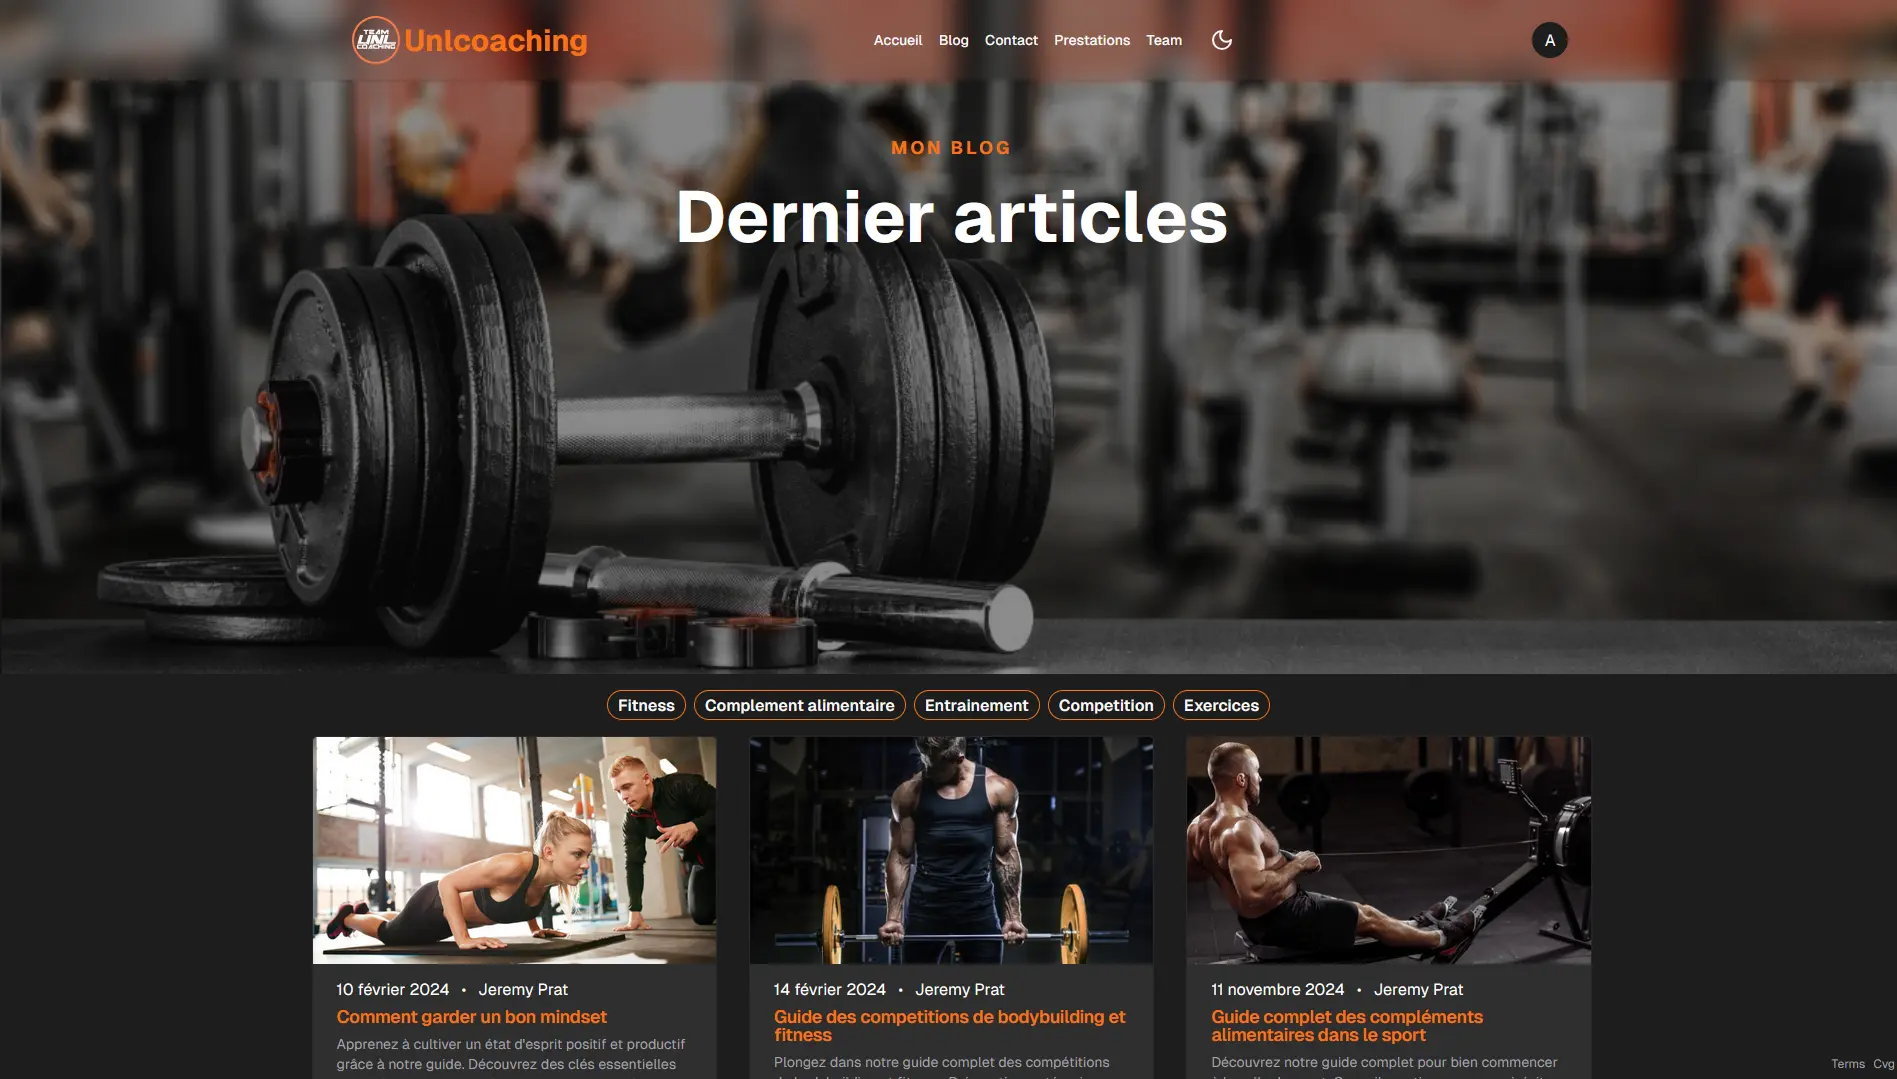
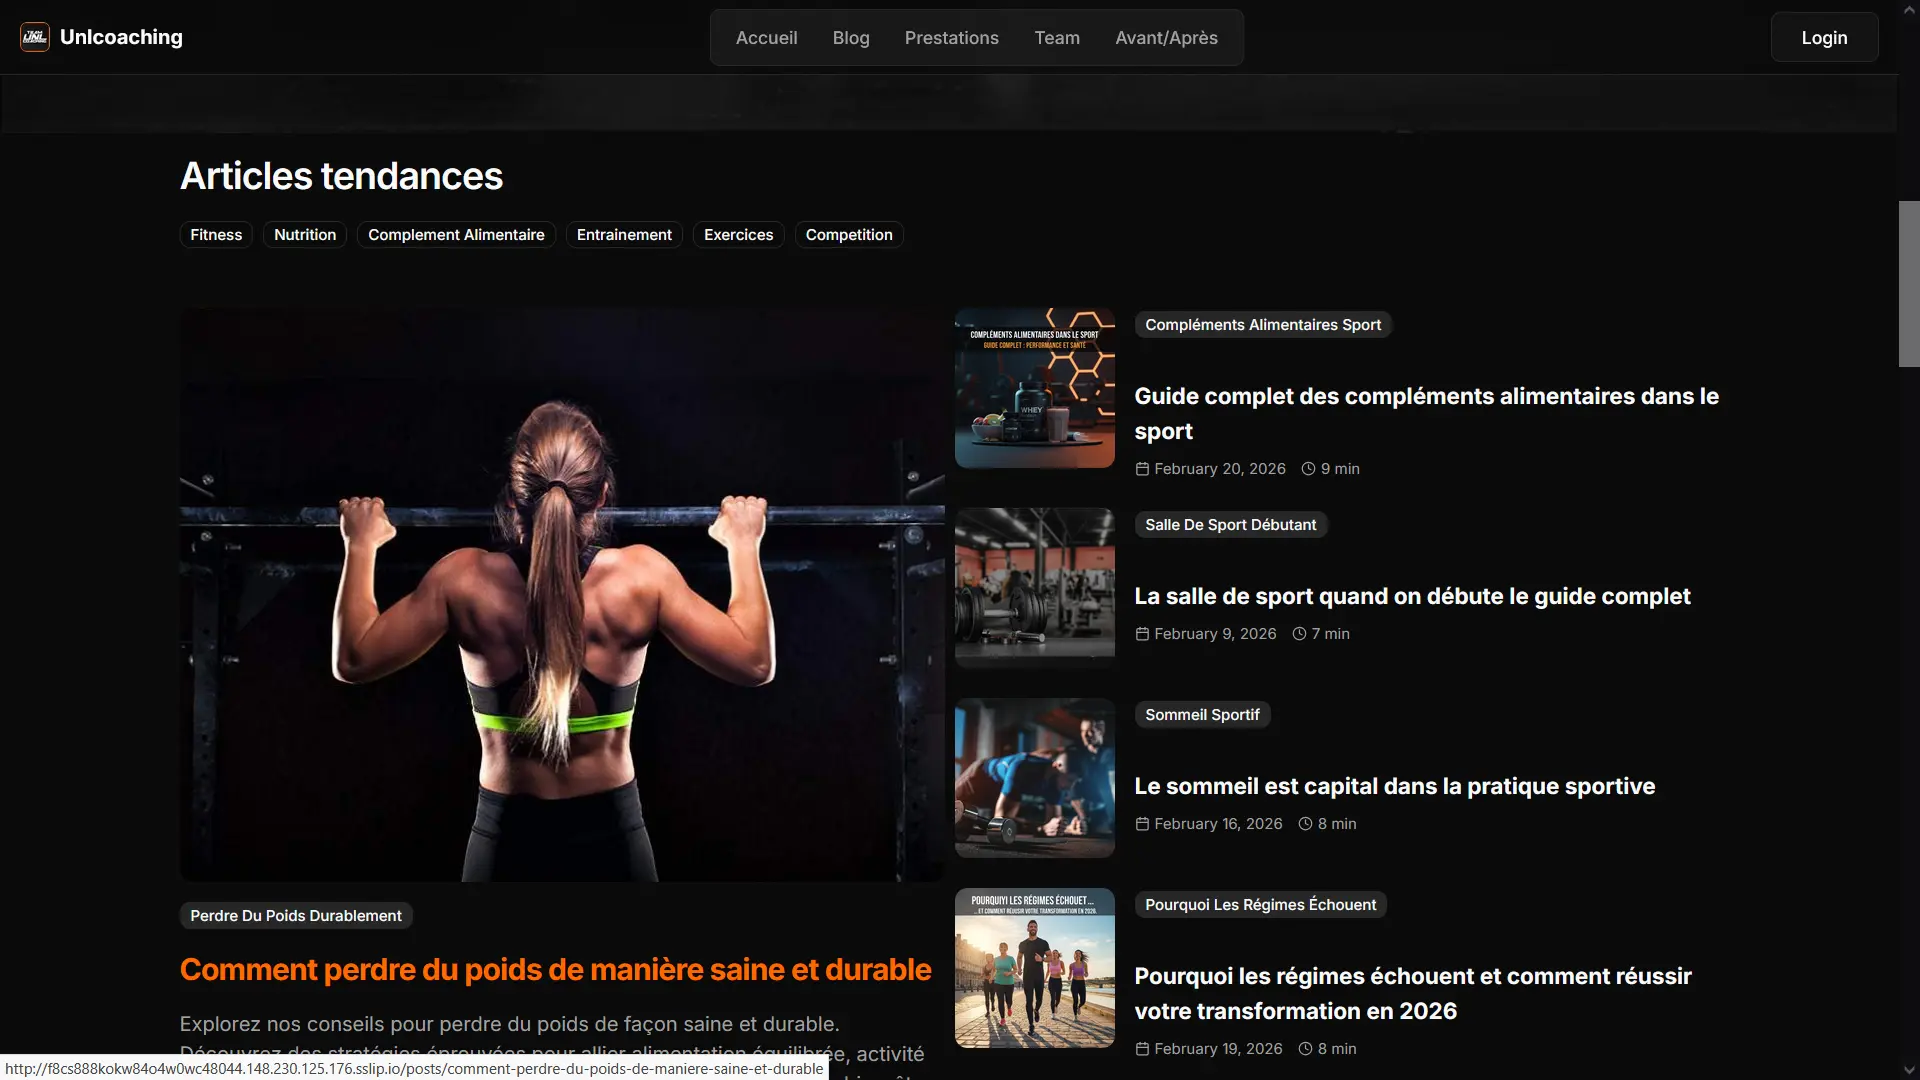
[Feature] add a new image for refonte unlcoaching v2

diff --git a/src/features/portfolio/portfolio-site.tsx b/src/features/portfolio/portfolio-site.tsx
@@ -146,8 +146,8 @@ const PORTFOLIO_SITES: PortfolioSite[] = [
     images: [
       "/images/unl-home.webp",
       "/images/unl-blog.webp",
-      "/images/unl-dashboard.webp",
-      "/images/unl-pricing.webp",
+      "/images/unl-prestation.webp",
+      "/images/unl-checkout.webp",
     ],
     alts: [
       "Page d'accueil site Unlcoaching coach sportif Gradignan",